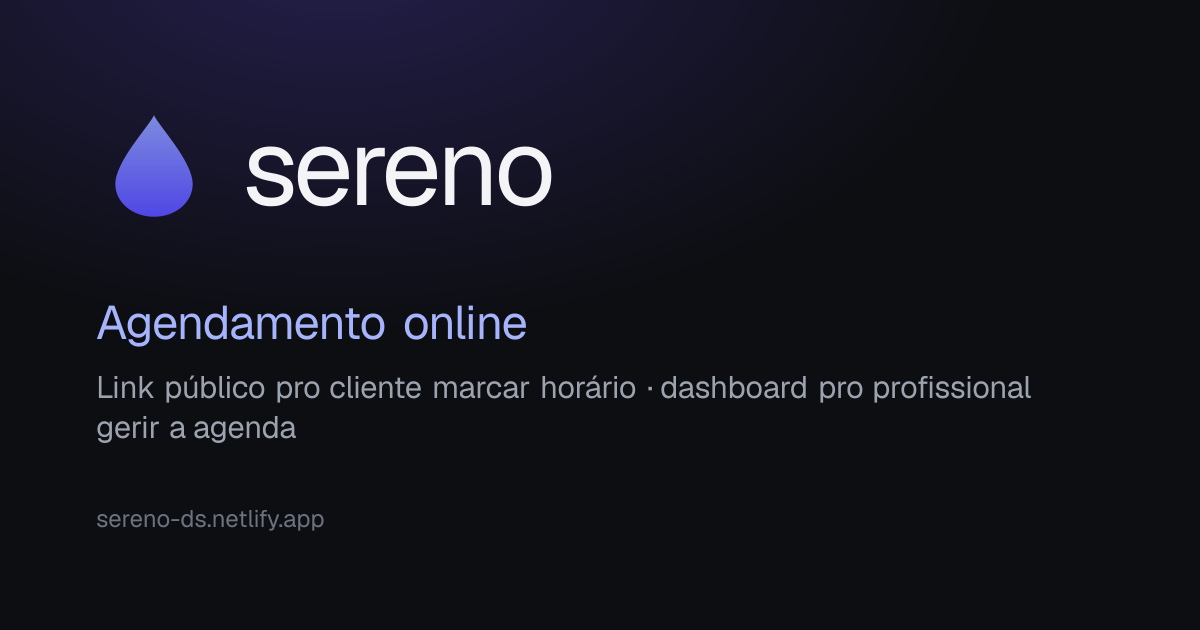
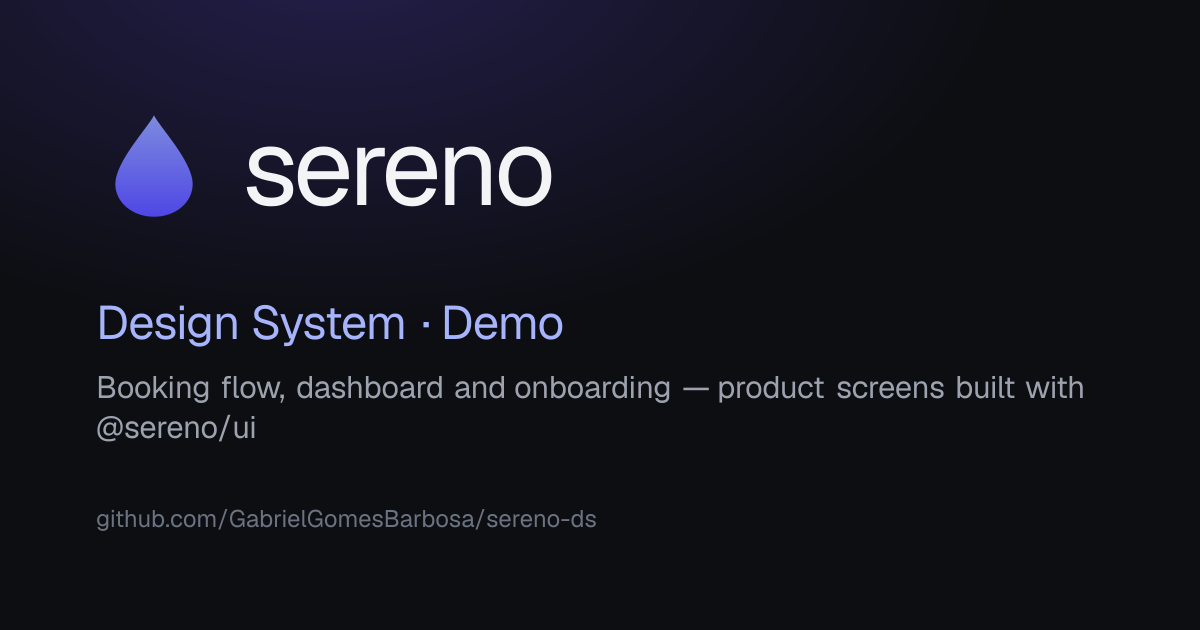
SS-204 — frame the demo card as a DS artifact, not a scheduling product
The demo OG card said "sereno · Agendamento online" and apps/demo's
title/description read "agendamento online para profissionais de saúde e
beleza" — presenting Sereno as the product rather than the Design System.

- demo opengraph-image.png: "Design System · Demo" + "Booking flow,
  dashboard and onboarding — product screens built with @sereno/ui".
- apps/demo/app/layout.tsx: app identity is now "Sereno Design System —
  demo"; title template "%s · Sereno DS". Screen content stays pt-BR.

diff --git a/apps/demo/app/layout.tsx b/apps/demo/app/layout.tsx
@@ -10,30 +10,29 @@ const jetbrainsMono = JetBrains_Mono({ subsets: ['latin'], weight: ['400', '500'
 
 const SITE = 'https://sereno-ds.netlify.app';
 
+// This app is the Design System's demo, not a standalone scheduling product —
+// the screens render pt-BR mock content, but the app identity is the DS.
+const TITLE = 'Sereno Design System — demo';
+const DESCRIPTION =
+  'Demo screens of the Sereno Design System: the booking flow, professional dashboard and onboarding, built with @sereno/ui and navigable on mocked data.';
+
 export const metadata: Metadata = {
   metadataBase: new URL(SITE),
-  title: {
-    default: 'Sereno — agendamento online para profissionais de saúde e beleza',
-    template: '%s · Sereno',
-  },
-  description:
-    'Plataforma de agendamento online para profissionais autônomos de saúde e beleza no Brasil. Link público para o cliente marcar horário e um dashboard para o profissional gerir a agenda.',
-  applicationName: 'Sereno',
+  title: { default: TITLE, template: '%s · Sereno DS' },
+  description: DESCRIPTION,
+  applicationName: 'Sereno Design System',
   openGraph: {
     type: 'website',
-    locale: 'pt_BR',
-    siteName: 'Sereno',
+    siteName: 'Sereno Design System',
     url: SITE,
-    title: 'Sereno — agendamento online para profissionais de saúde e beleza',
-    description:
-      'Link público de agendamento, mobile-first e sem cadastro obrigatório, e um dashboard completo para o profissional.',
+    title: TITLE,
+    description: DESCRIPTION,
     images: ['/opengraph-image.png'],
   },
   twitter: {
     card: 'summary_large_image',
-    title: 'Sereno — agendamento online para profissionais de saúde e beleza',
-    description:
-      'Link público de agendamento, mobile-first e sem cadastro obrigatório, e um dashboard completo para o profissional.',
+    title: TITLE,
+    description: DESCRIPTION,
     images: ['/opengraph-image.png'],
   },
 };

diff --git a/apps/docs/src/design-system/CHANGELOG.md b/apps/docs/src/design-system/CHANGELOG.md
@@ -6,8 +6,9 @@ Version shown in the `/design-system` header. Source: `apps/docs/src/design-syst
 
 - **`opengraph-image.png` (1200×630) + `apple-icon.png` (180×180)** for both
   apps, in `apps/{docs,demo}/app/`. The water-drop mark + wordmark on the dark
-  canvas; docs copy in English ("Design System"), demo in pt-BR
-  ("Agendamento online").
+  canvas. Both cards are framed as the Design System — docs "Design System",
+  demo "Design System · Demo" (the demo is a DS artifact, not a standalone
+  scheduling product).
 - Committed PNGs, not `opengraph-image.tsx` routes — with `output: 'export'` the
   dynamic route emits an extensionless file a static host won't serve as
   `image/png`. Regenerated by `npm run gen:brand-images`
@@ -15,7 +16,8 @@ Version shown in the `/design-system` header. Source: `apps/docs/src/design-syst
 - `apps/docs/app/layout.tsx`: added `metadataBase` + `openGraph` + `twitter`
   (`summary_large_image`). `apps/demo`: image wired into the shared metadata and
   each screen's `openGraph`/`twitter` (page-level `openGraph` overrides the file
-  convention, so it must be explicit).
+  convention, so it must be explicit); the app-level `title`/`description` no
+  longer read as "agendamento online…" but as the DS demo.
 - Favicon (`icon.svg`) unchanged — shipped in 0.19.0 (SS-202).
 
 ## 0.19.1 — Landing page rebuilt (SS-203)
